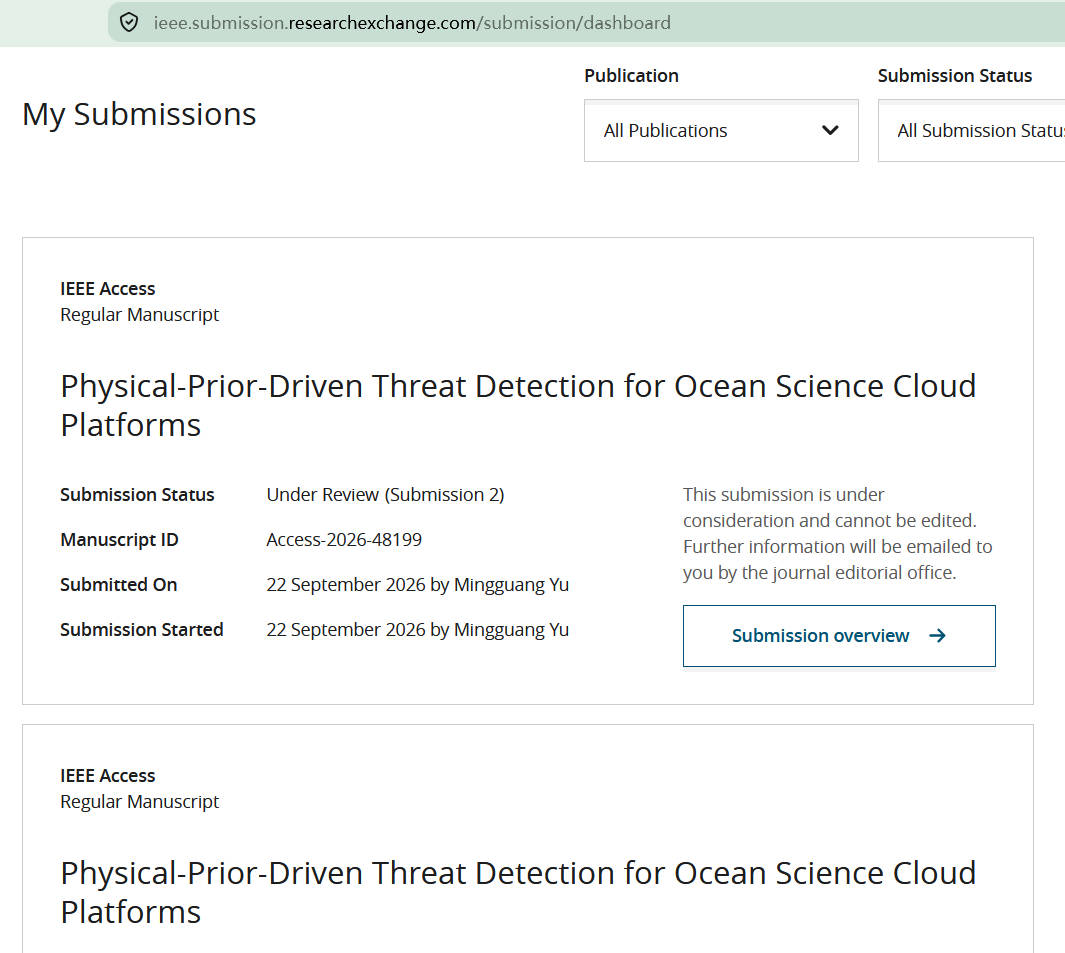
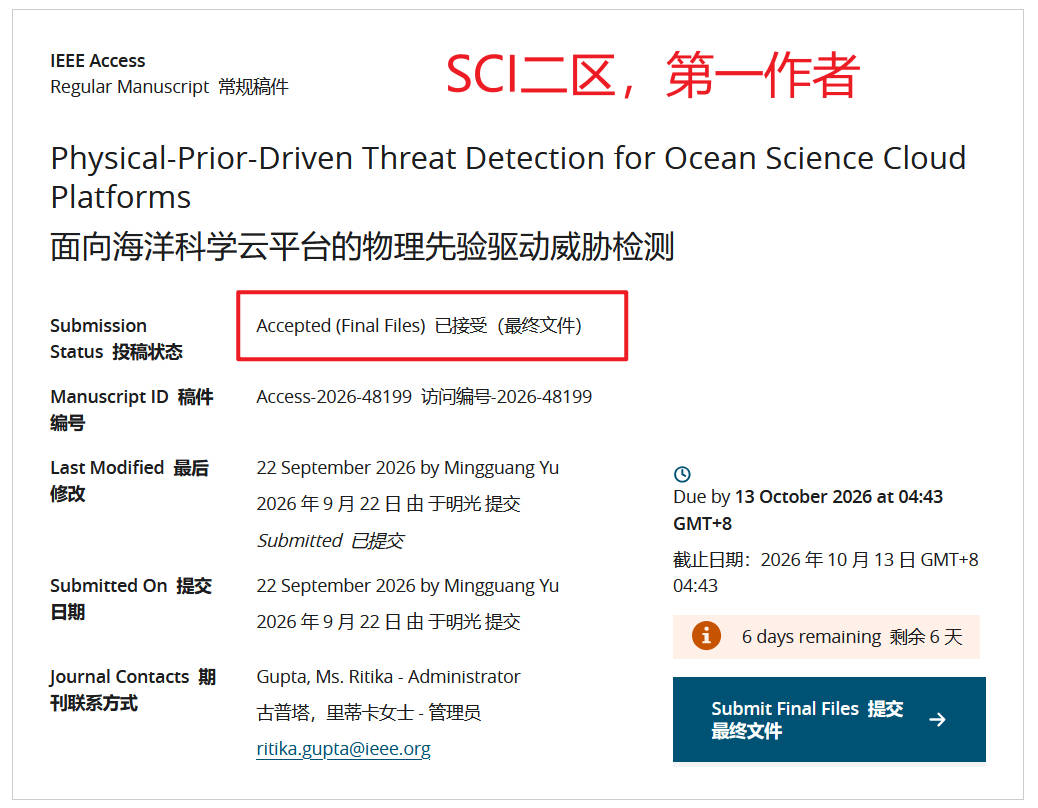
学术成果同步：论文已接受、专利已公开
论文与专利的描述按个人信息文档更新，两处都加了状态标签。

- 论文：换成 GFAG-Transformer 的描述（原文约 250 字，压到 110 字，
  保留 6 类威胁模型、分组特征注意力门控、Macro-F1 0.933、
  开放集 AUROC 0.961；去掉了三级阈值细节和末句自评）
- 专利：描述改为「属……交叉领域，将物理先验检测框架固化为可实施的方法及系统」
- 状态：新增 .badge--status 浅蓝标签，与成果级别标签并排
- 专利名去掉占位符：一种物理先验驱动的海洋科学云平台威胁检测方法及系统
- 论文卡截图更换（旧图显示 Under Review，与新状态矛盾），
  尺寸 1065×953 → 1038×808，alt 同步改写
- README / image/README：更新截图说明；顺手修了「有两处」实列三条的笔误

diff --git a/index.html b/index.html
@@ -442,16 +442,17 @@
             <!-- 投稿系统截图。这张是横版，不像证书墙那样需要对齐，
                  所以 .paper-card--media .cert-img 里把 aspect-ratio 设成了
                  auto，直接按图片原始比例排，不留黑边 -->
-            <img src="image/paper-review.jpg" width="1065" height="953" alt="IEEE Access 投稿系统页面，显示该论文当前状态为 Under Review" class="cert-img" loading="lazy">
+            <img src="image/paper-review.jpg" width="1038" height="808" alt="IEEE Access 投稿系统页面，显示该论文状态为 Accepted（已接受）" class="cert-img" loading="lazy">
 
             <div>
-              <span class="badge">IEEE Access · SCI 二区</span>
+              <span class="badge">IEEE Access · SCI 二区</span><span class="badge badge--status">已接受</span>
               <!-- TODO: 换成论文准确标题（从 IEEE Xplore 复制） -->
               <h3 class="ph">基于物理先验驱动的海洋科学云平台威胁检测方法</h3>
               <p class="paper-meta">学生一作 · 2025</p>
               <p class="paper-meta">
-                提出「对偶原理」物理先验检测框架与 GFAG-Transformer 模型，
-                在真实生产日志数据集上 Macro-F1 达 0.93。
+                构建 6 类推理攻击威胁模型，提出 GFAG-Transformer：以分组特征注意力门控注入
+                「攻击类型→四维行为信号」物理先验，KL 正则 + 余弦退火实现先验内化。
+                真实生产日志上 Macro-F1 0.933（较 LogFormer +13.2pp），未知攻击开放集 AUROC 0.961。
               </p>
               <!-- TODO: 换成论文的 IEEE Xplore / DOI 链接 -->
               <a href="#" class="paper-link ph" target="_blank" rel="noopener">查看论文 →</a>
@@ -468,12 +469,12 @@
             <img src="image/patent-notice.jpg" width="596" height="836" alt="国家知识产权局专利申请受理通知书" class="cert-img" loading="lazy">
 
             <div>
-              <span class="badge">发明专利</span>
-              <!-- TODO: 换成专利准确名称（从专利局检索系统复制） -->
-              <h3 class="ph">海洋科学云平台异常访问检测方法及系统</h3>
+              <span class="badge">发明专利</span><span class="badge badge--status">已公开</span>
+              <h3>一种物理先验驱动的海洋科学云平台威胁检测方法及系统</h3>
               <p class="paper-meta">学生第一发明人 · 2025</p>
               <p class="paper-meta">
-                与 SCI 论文同源成果，将物理先验检测框架固化为可实施的发明专利。
+                属海洋数据安全、物理信息机器学习与日志异常检测交叉领域，
+                将物理先验检测框架固化为可实施的方法及系统；与 SCI 论文同源成果。
               </p>
               <!-- TODO: 可以换成专利公开号，或直接删掉这行 -->
               <p class="paper-meta ph">申请号／公开号待填</p>

diff --git a/css/style.css b/css/style.css
@@ -302,6 +302,15 @@ img { max-width: 100%; display: block; }
   color: #fff;
 }
 
+/* 状态标签（已接受 / 已公开），紧跟在成果级别右边。
+   刻意用浅底而不是第二个实心蓝：实心那个回答的是「这是什么级别的成果」，
+   状态是补充信息，两个都做实心会互相抢视觉重心，反而都不显眼 */
+.badge--status {
+  margin-left: 6px;
+  background: var(--c-accent-light);
+  color: var(--c-accent);
+}
+
 
 /* ============================================================
    06. 导航栏

diff --git a/image/README.md b/image/README.md
@@ -60,7 +60,7 @@
 
 | 文件 | 尺寸 | 对应内容 |
 |---|---|---|
-| `paper-review.jpg` | 1065×953 | IEEE Access 投稿系统页面（论文卡左侧） |
+| `paper-review.jpg` | 1038×808 | IEEE Access 投稿系统页面，状态 Accepted（论文卡左侧） |
 | `patent-notice.jpg` | 596×836 | 国家知识产权局专利申请受理通知书（专利卡左侧） |
 | `copyright-sst.jpg` | 480×650 | 海洋表面温度预测系统 · 2026SR0305828 |
 | `copyright-obe.jpg` | 480×646 | 基于 OBE 理念的过程考核与达成度分析系统 · 2025SR0343232 |
@@ -308,11 +308,20 @@ ffmpeg -i image/photo.jpg -vf "crop=295:295:0:0,scale=200:200" -q:v 3 avatar.jpg
 这两处不是疏忽，是权衡之后的选择，写在这里免得日后忘了：
 
 1. **`paper-review.jpg`** —— IEEE 投稿系统的 Dashboard 截图，图上能看到
-   稿件编号 `Access-2026-48199`、状态 `Under Review (Submission 2)`、
-   以及投稿人 `Mingguang Yu`。本来按「审稿中的论文不放」的原则是**不该放**的，
-   你明确要求用它填论文卡的占位框，所以放了。
-   **如果之后后悔，要在 `git push` 之前改**——一旦推上去，
-   即使删掉也还留在 Git 历史里。
+   稿件编号 `Access-2026-48199`、状态 `Accepted (Final Files) 已接受`、
+   投稿人 `Mingguang Yu`，以及期刊管理员 `Ritika Gupta` 的工作邮箱
+   `ritika.gupta@ieee.org`。图上还叠了一行红色大字「SCI二区，第一作者」。
+
+   **2026-10-06 换过图**：旧图上写的是 `Under Review (Submission 2)`，
+   论文录用后与页面上的「已接受」自相矛盾，已替换。
+   换图之后原来那条「审稿中的论文不该放」的顾虑自然消失了。
+
+   剩下的只是第三方信息：于明光的名字（其它几张图上也有），
+   以及那位 IEEE 管理员的名字和邮箱——期刊的公务联系方式，风险很低。
+
+   > 小提醒：红字写的是「第一作者」，页面上写的是「学生一作」，
+   > `个人信息.md` 里写的是「除导师外第一作者」。三个说法不冲突，
+   > 但严格讲「学生一作」更准确，红字那行是图的一部分、不好改。
 
 2. **`ocean-award-2025.jpg`** —— 证书上除了你，还印着另外三位同学的名字
    （马力力、陈渝中、于明光）。你确认过同意公开。

diff --git a/README.md b/README.md
@@ -389,11 +389,14 @@ git push
 2026-09-24 清理过一次：14 个含身份证号／签名／审稿状态的档案已移到
 仓库外的 `D:\GitHub\个人材料-勿公开\`。详见 `image/README.md`。
 
-**有两处是权衡之后决定公开的**，不是疏忽，写在这里免得日后忘了：
+**有三处是权衡之后决定公开的**，不是疏忽，写在这里免得日后忘了：
 
 1. `image/paper-review.jpg` —— IEEE 投稿系统截图，图上有稿件编号
-   `Access-2026-48199` 和状态 `Under Review (Submission 2)`。
-   按上面那条「审稿中的论文不放」本不该放，是你明确要求用它填占位框才放的。
+   `Access-2026-48199`、状态 `Accepted (Final Files)`，以及投稿人
+   `Minguang Yu`（于明光）和一位 IEEE 管理员的工作邮箱。
+   这张图 **2026-10-06 换过一版**：旧图上写的是 `Under Review`，
+   论文录用后与页面上的「已接受」直接矛盾，已替换。
+   换图之后原先那条「审稿中的论文不该放」的顾虑自然消失了。
    **想反悔要趁 `git push` 之前**：推上去之后即使删掉，也还留在 Git 历史里。
 2. `image/ocean-award-2025.jpg` 和 `image/patent-notice.jpg` ——
    上面印着其他几位参与者的姓名（马力力、陈渝中、于明光、朱军）。
